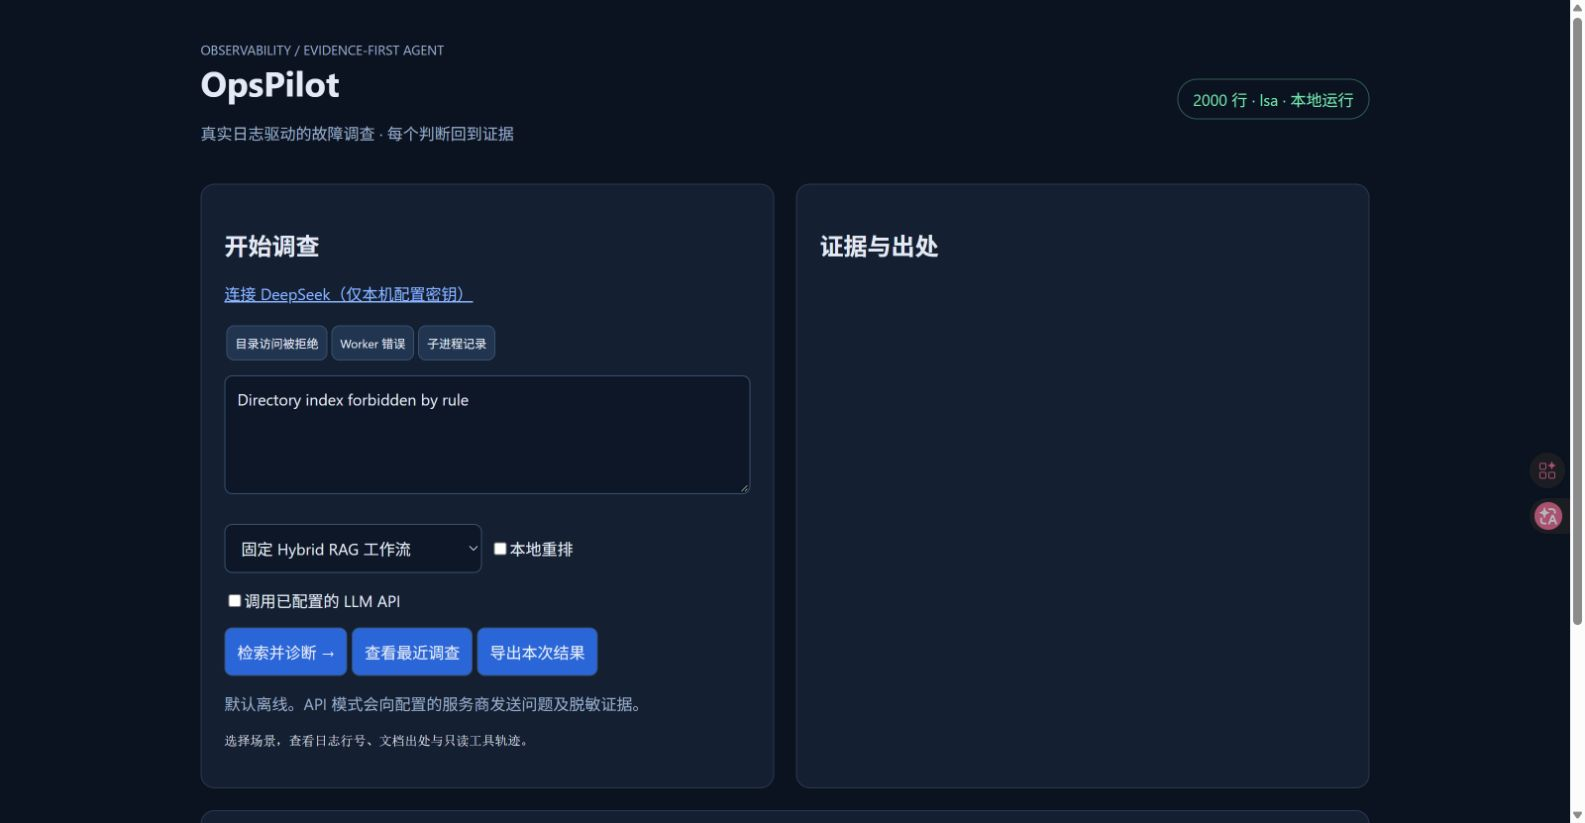
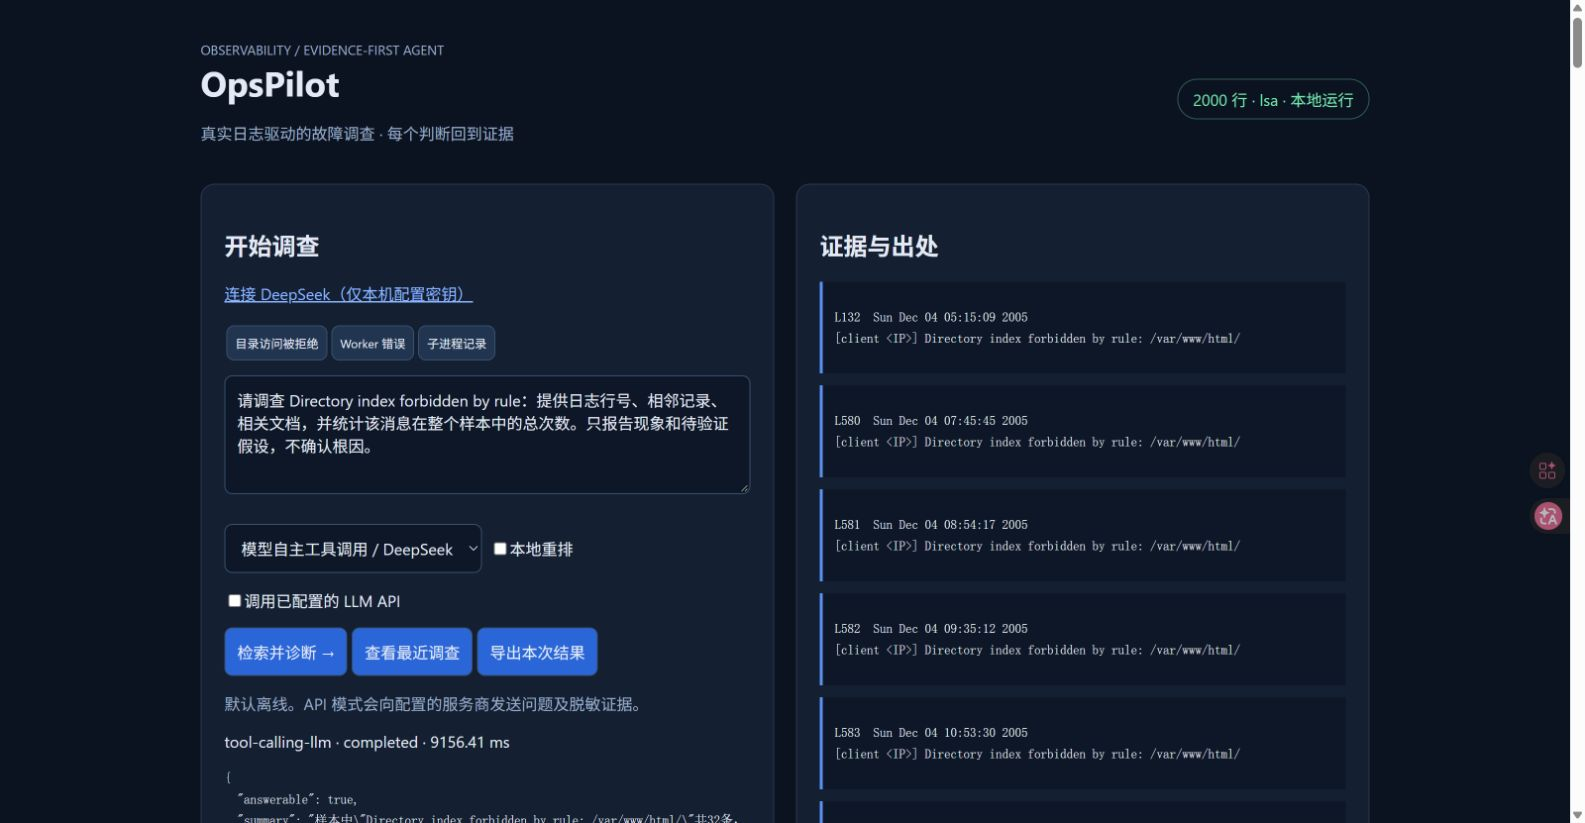
Preserve timestamps in tool evidence and finalize verified release

diff --git a/opspilot/tool_agent.py b/opspilot/tool_agent.py
@@ -67,9 +67,12 @@ class ToolAgent:
         messages=[{'role':'system','content':SYSTEM},{'role':'user','content':redact(question)}]
         own=self.client is None;client=self.client or httpx.Client(timeout=30,follow_redirects=False)
         def safe(value):
-            s=json.dumps(value,ensure_ascii=False)
-            if self.config.api_key:s=s.replace(self.config.api_key,'<SECRET>')
-            return json.loads(redact(s))
+            if isinstance(value,dict):return {k:safe(v) for k,v in value.items()}
+            if isinstance(value,list):return [safe(v) for v in value]
+            if isinstance(value,str):
+                if self.config.api_key:value=value.replace(self.config.api_key,'<SECRET>')
+                return redact(value)
+            return value
         try:
             self.config.validate()
             for round_no in range(1,self.max_rounds+1):

diff --git a/opspilot/ingest.py b/opspilot/ingest.py
@@ -12,7 +12,13 @@ def redact(text):
         except ValueError:
             return m[0]
     text = re.sub(r"\b(?:\d{1,3}\.){3}\d{1,3}\b", ip, text)
-    text = re.sub(r"(?i)(?:[0-9a-f]{1,4}:){2,}[0-9a-f:]*", "<IPV6>", text)
+    def ipv6(m):
+        try:
+            addr=ipaddress.ip_address(m[0])
+            return "<IPV6>" if addr.version==6 else m[0]
+        except ValueError:
+            return m[0]
+    text = re.sub(r"(?i)(?:[0-9a-f]{1,4}:){2,}[0-9a-f:]*", ipv6, text)
     text = re.sub(r"[\w.+-]+@[\w.-]+\.[A-Za-z]{2,}", "<EMAIL>", text)
     text = re.sub(r"(?i)\b(api[_-]?key|token|password|authorization)\s*[:=]\s*\S+", r"\1=<SECRET>", text)
     return text

diff --git a/tests/test_tool_agent.py b/tests/test_tool_agent.py
@@ -42,6 +42,7 @@ def test_model_selects_then_adapts_to_actual_result(agent):
     with httpx.Client(transport=httpx.MockTransport(handler)) as c:
         r=ToolAgent(agent,ModelConfig('test-secret','test'),c).run('q')
     assert r['status']=='completed' and r['usage']['api_calls']==3
+    assert r['trace'][0]['result']['items'][0]['time']=='Sun Dec 04 05:15:09 2005'
     assert [t['tool'] for t in r['trace']]==['search_logs','search_docs','get_context','finish_investigation']
     assert requests[0]['tool_choice']=='auto' and 'thinking' in requests[0]
     assert r['usage']['total_tokens']==360

diff --git a/tests/test_system.py b/tests/test_system.py
@@ -24,6 +24,7 @@ def test_labels_not_in_runtime(agent):
 def test_redaction():
     assert redact('1.2.3.4 a@b.com password=secret token=abc')=='<IP> <EMAIL> password=<SECRET> token=<SECRET>'
     assert '<IPV6>' in redact('2001:db8::1234')
+    assert redact('Sun Dec 04 05:15:09 2005')=='Sun Dec 04 05:15:09 2005'
 
 @pytest.mark.parametrize('q',["'; DROP TABLE logs; --",'%',r'_',chr(92)])
 def test_literal_sql(agent,q):

diff --git a/reports/VALIDATION.md b/reports/VALIDATION.md
@@ -1,3 +1,19 @@
+# v0.2 工具调用升级验证 2026-11-17
+
+- 真实模型：DeepSeek deepseek-flash，用户在本机页面配置；未读取其他项目密钥，未写入磁盘/报告/Git。
+- 模型实际通过 tool_calls 选择日志/文档检索、相邻行、过滤计数；服务端只读执行并校验最终引用。
+- Windows完整测试50 passed，4.11s；Linux容器完整测试50 passed（最终输出见本次工具执行记录）。保留一个第三方弃用警告。
+- 固定六条行为任务的真实对照：keyword 5/6、vector+LLM 4/6、hybrid+LLM 5/6、动态Agent 6/6。Agent P50 7321.188ms，输入55002、输出3856 Token，两个被拒绝调用恢复；完整结果见 agent_comparison_results.json。
+- 本轮费用未知；按官方峰时无缓存价格作保守估算，Agent部分约$0.0211278，不是实际账单，不包含开发探索。
+- 开发探索：首条中文复杂任务round_limit；之后两条简短实际任务完成；修复长度约束与错误反馈后，同一中文问题真实复测completed，4轮API请求、12375总Token、9156.41ms。全部探索记录见 agent_exploration_results.json。
+- 测量版本标记 agent-measured-20261117。检查轨迹发现时间被误脱敏，随后已修复IPv6校验和递归脱敏并加入回归断言；付费对照未为该修复重复运行，本轮不评价时间推理。
+- Docker镜像已构建，非root/只读Compose继续保留。8765为最终源码容器；8766为已配置密钥、保留本次实际结果的演示服务，包含测量版本的脱敏局限，正常重启源码服务后使用最终修复且需重新配置密钥。
+- 已更新投递PDF，保留原版式并继续删除两个项目日期。项目2不修改、不合并。
+
+以下是v0.1的历史交付记录，其“无真实调用”“23项测试”仅描述当时状态。
+
+---
+
 # 本机交付验证 — 2026-11-17
 
 ## 已实际完成

diff --git a/README.md b/README.md
@@ -2,7 +2,7 @@
 
 **真实 Apache 日志驱动、证据优先的故障调查 Agent。** 独立于 LLM Security Audit Gateway 的第二个项目。具备可运行网页、FastAPI、只读工具、Hybrid RAG、可选真实模型 API 与可复现的事件证据评测。
 
-![本机演示](reports/demo.jpg)
+![真实模型工具调用演示](reports/agent_demo.jpg)
 
 
 ## v0.2 模型自主工具调用
